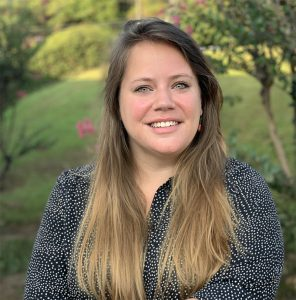
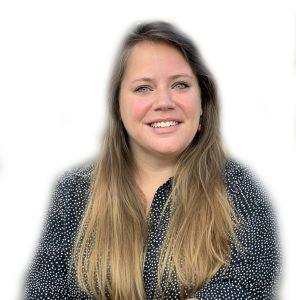
push

diff --git a/style.css b/style.css
@@ -51,7 +51,7 @@ body{
 
 .hole:after {
     display: block;
-    background: url(images/hole.jpg) bottom center no-repeat;
+    background: url(images/newHole.png) bottom center no-repeat;
     background-size: contain;
     content: '';
     width: 100%;
